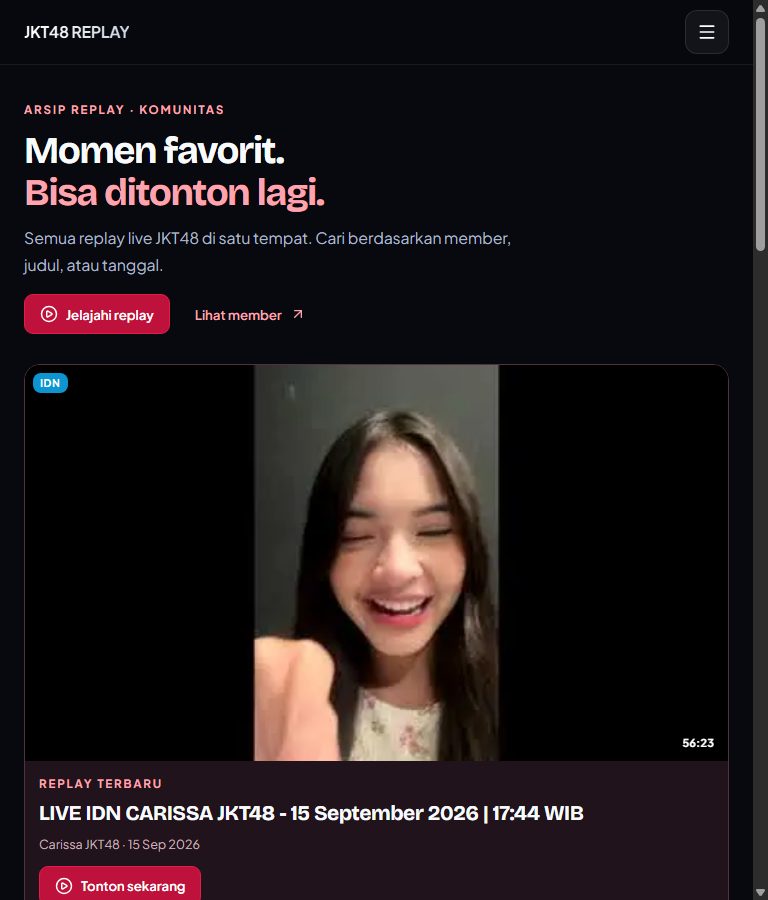
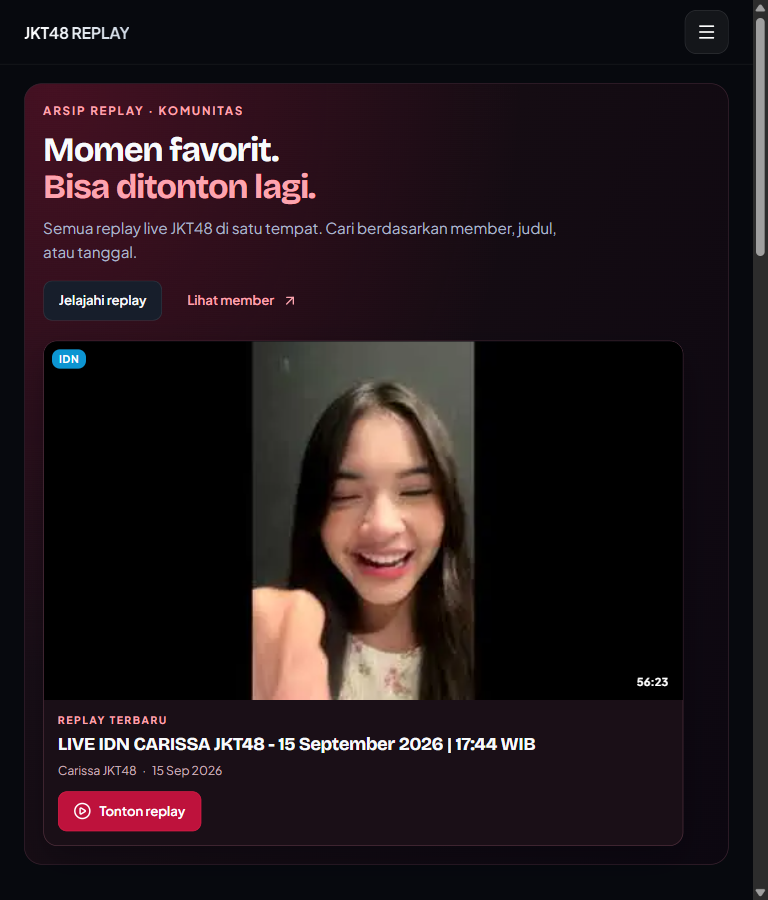
Hero band: teks kiri + kartu spotlight replay terbaru (.hero-card), buang CSS hero lama

diff --git a/web/app/portal.css b/web/app/portal.css
@@ -23,36 +23,32 @@ button:disabled { cursor: not-allowed; opacity: .5; }
 .secondary-button { background: #171e2b; border: 1px solid var(--border-card); color: #f8fafc; }
 .secondary-button:hover { border-color: #94a3b8; }
 .text-button { color: #fda4af; }
-.catalog-hero { padding-top: clamp(22px, 3.5vw, 34px); padding-bottom: clamp(20px, 3vw, 30px); display: grid; grid-template-columns: 1.6fr 1fr; gap: clamp(20px, 3vw, 34px); align-items: center; }
-.catalog-hero > div { min-width: 0; }
-.catalog-hero h1 { font-size: clamp(1.7rem, 1.25rem + 2.3vw, 3rem); line-height: 1.1; letter-spacing: -.04em; overflow-wrap: break-word; text-wrap: balance; }
-.catalog-hero h1 span { color: #fda4af; }
-.hero-copy { max-width: 520px; margin: 12px 0 16px; line-height: 1.7; font-size: clamp(.88rem, .85rem + .4vw, .98rem); }
-.hero-actions { display: flex; flex-wrap: wrap; gap: 10px; }
-.hero-actions .primary-button, .hero-actions .text-button { flex: 0 1 auto; }
-/* Spotlight replay terbaru — menggantikan panel statistik RINGKASAN ARSIP. */
-.hero-spotlight { position: relative; overflow: hidden; border: 1px solid #52303d; background: #20131c; border-radius: 16px; display: flex; flex-direction: column; min-width: 0; }
-.hero-spotlight-thumb { position: relative; display: block; width: 100%; aspect-ratio: 16 / 9; background: #020617; overflow: hidden; }
-.hero-spotlight-img { object-fit: cover; }
-.hero-spotlight-thumb:hover .hero-spotlight-img { transform: scale(1.04); }
-.hero-spotlight-img { transition: transform .4s ease; }
-.hero-spotlight-play { position: absolute; inset: 0; display: grid; place-items: center; color: #fff; opacity: 0; background: rgba(2,6,23,.45); transition: opacity .2s ease; }
-.hero-spotlight-thumb:hover .hero-spotlight-play, .hero-spotlight-thumb:focus-visible .hero-spotlight-play { opacity: 1; }
-.hero-spotlight-body { padding: clamp(14px, 1.8vw, 20px); display: flex; flex-direction: column; gap: 8px; min-width: 0; }
-.hero-spotlight-body .eyebrow { margin-bottom: 0; }
-.hero-spotlight-title { font-size: clamp(1rem, .92rem + .8vw, 1.3rem); line-height: 1.3; overflow-wrap: break-word; display: -webkit-box; -webkit-line-clamp: 2; -webkit-box-orient: vertical; overflow: hidden; }
-.hero-spotlight-title:hover { color: #fda4af; }
-.hero-spotlight-meta { color: #c6aeb8; font-size: .78rem; }
-.hero-spotlight-body .primary-button { margin-top: 4px; align-self: flex-start; }
-.hero-note { position: relative; overflow: hidden; border: 1px solid #52303d; background: #20131c; border-radius: 16px; padding: clamp(16px, 2.2vw, 22px); min-height: 0; display: flex; flex-direction: column; justify-content: center; gap: 12px; }
-.hero-note > :not(.hero-note-mark) { position: relative; }
-.hero-note > p { color: #fda4af; font-size: .68rem; letter-spacing: .18em; }
-.hero-stats-inline { display: flex; gap: clamp(16px, 3vw, 28px); }
-.hero-stats-inline > div { display: flex; flex-direction: column; gap: 2px; }
-.hero-stats-inline strong { font-family: var(--font-display); font-size: clamp(1.4rem, 1.1rem + 1.4vw, 1.9rem); font-weight: 800; line-height: 1.1; color: #fff; font-variant-numeric: tabular-nums; }
-.hero-stats-inline span { font-size: .72rem; color: #c6aeb8; letter-spacing: .02em; }
-.hero-note-foot { color: #c6aeb8; font-size: .72rem; }
-.hero-note-mark { position: absolute; font-size: clamp(80px, 14vw, 130px); font-weight: 900; line-height: 1; right: -6px; bottom: -18px; color: #40202e; pointer-events: none; }
+.catalog-hero-block { padding-top: clamp(16px, 2.4vw, 24px); padding-bottom: clamp(16px, 2.4vw, 24px); }
+/* Band hero sinematik: satu panel gelap dengan glow maroon, teks di kiri dan
+   kartu spotlight replay terbaru di kanan. Dua kolom seimbang (align-items:
+   center) supaya tidak ada ruang kosong menggantung seperti versi lama. */
+.hero-band { display: grid; grid-template-columns: minmax(0, 1fr) minmax(0, 420px); align-items: center; gap: clamp(18px, 2.6vw, 34px); padding: clamp(18px, 2.4vw, 30px); border: 1px solid #3d2331; border-radius: 18px; background: radial-gradient(115% 130% at 4% 0%, rgba(190, 18, 60, .26) 0%, rgba(190, 18, 60, 0) 58%), linear-gradient(114deg, #1b1019 0%, #150c13 48%, #0c0710 100%); }
+.hero-band.is-solo { grid-template-columns: minmax(0, 1fr); }
+.hero-intro { min-width: 0; display: flex; flex-direction: column; align-items: flex-start; }
+.catalog-hero-block h1 { font-size: clamp(1.6rem, 1.2rem + 1.9vw, 2.55rem); line-height: 1.1; letter-spacing: -.035em; overflow-wrap: break-word; text-wrap: balance; }
+.catalog-hero-block h1 span { color: #fda4af; }
+.hero-copy { max-width: 48ch; margin: 10px 0 16px; line-height: 1.6; font-size: clamp(.86rem, .84rem + .35vw, .95rem); }
+.hero-actions { display: flex; flex-wrap: wrap; align-items: center; gap: 10px; }
+.hero-actions .primary-button, .hero-actions .secondary-button, .hero-actions .text-button { flex: 0 1 auto; }
+/* Kartu spotlight: satu aksi utama (Tonton replay) supaya tidak bersaing
+   dengan tombol kiri. Poster 16:9 = bingkai asli thumbnail (kolase 3x2 bot). */
+.hero-card { display: flex; flex-direction: column; min-width: 0; overflow: hidden; border: 1px solid #52303d; border-radius: 14px; background: #1a0f17; box-shadow: 0 16px 34px rgba(2, 2, 10, .38); }
+.hero-card-thumb { position: relative; display: block; width: 100%; aspect-ratio: 16 / 9; background: #05070f; overflow: hidden; }
+.hero-card-img { object-fit: cover; transition: transform .4s ease; }
+.hero-card-thumb:hover .hero-card-img, .hero-card-thumb:focus-visible .hero-card-img { transform: scale(1.03); }
+.hero-card-play { position: absolute; inset: 0; display: grid; place-items: center; color: #fff; opacity: 0; background: rgba(2, 6, 23, .42); transition: opacity .2s ease; }
+.hero-card-thumb:hover .hero-card-play, .hero-card-thumb:focus-visible .hero-card-play { opacity: 1; }
+.hero-card-body { padding: 12px 14px 14px; display: flex; flex-direction: column; gap: 5px; min-width: 0; }
+.hero-card-kicker { font-size: .64rem; letter-spacing: .16em; font-weight: 800; color: #fda4af; }
+.hero-card-title { font-size: clamp(.98rem, .9rem + .5vw, 1.18rem); line-height: 1.28; overflow-wrap: break-word; display: -webkit-box; -webkit-line-clamp: 2; -webkit-box-orient: vertical; overflow: hidden; }
+.hero-card-title:hover { color: #fecdd3; }
+.hero-card-meta { display: flex; flex-wrap: wrap; gap: 6px; color: #c6aeb8; font-size: .76rem; }
+.hero-card-cta { align-self: flex-start; margin-top: 7px; }
 .catalog-filters { display: flex; align-items: end; flex-wrap: wrap; gap: 10px; padding: clamp(12px, 2vw, 16px); border: 1px solid var(--border-card); border-radius: 12px; background: #101622; }
 .catalog-filters label, .form-row label, .search-field { display: flex; flex-direction: column; gap: 6px; font-size: .76rem; font-weight: 600; color: var(--text-secondary); min-width: 0; }
 .catalog-filters .primary-button, .catalog-filters .secondary-button, .catalog-filters .text-button { flex: 0 0 auto; }
@@ -84,6 +80,14 @@ button:disabled { cursor: not-allowed; opacity: .5; }
 .member-card { box-shadow: none; }
 .footer-brand { font-weight: 700; color: #f8fafc; margin-bottom: 8px; }
 
+/* Hero: di bawah 900px kartu spotlight turun ke bawah teks (satu kolom). Lebar
+   kartu dibatasi 640px saja — cukup besar untuk poster ala aplikasi streaming,
+   tapi tidak menutupi seluruh layar tablet. */
+@media (max-width: 900px) {
+  .hero-band { grid-template-columns: minmax(0, 1fr); }
+  .hero-card { max-width: 640px; }
+}
+
 /* Form filter: tumpuk rapi di layar kecil */
 @media (max-width: 720px) {
   .catalog-filters { align-items: stretch; }
@@ -91,8 +95,6 @@ button:disabled { cursor: not-allowed; opacity: .5; }
   .catalog-filters .filter-actions { margin-left: 0; width: 100%; }
   .catalog-filters .filter-actions .primary-button { flex: 1 1 auto; }
   /* Tombol hero jadi lebar penuh agar mudah dijangkau jempol. */
-  .hero-actions .primary-button, .hero-actions .text-button { flex: 1 1 100%; }
-  .hero-spotlight-body .primary-button { align-self: stretch; text-align: center; }
-  /* Kartu ringkasan tidak perlu cetakan besar di layar sempit. */
-  .hero-note-mark { display: none; }
+  .hero-actions .primary-button, .hero-actions .secondary-button, .hero-actions .text-button { flex: 1 1 100%; }
+  .hero-card-cta { align-self: stretch; justify-content: center; }
 }

diff --git a/web/components/PublicCatalog.tsx b/web/components/PublicCatalog.tsx
@@ -1,7 +1,7 @@
 import Link from 'next/link';
 import { getAllVideos, getPublicMembers, getUpcomingVideos } from '@/lib/db';
 import VideoCard from '@/components/VideoCard';
-import HeroSpotlightThumb from '@/components/HeroSpotlightThumb';
+import HeroSpotlight from '@/components/HeroSpotlight';
 import { ArrowUpRight, MonitorPlay, PlayCircle, Search, User } from 'lucide-react';
 export default async function PublicCatalog({ searchParams }: { searchParams: Promise<{ q?: string; member?: string; platform?: string; page?: string }> }) {
   const params = await searchParams;
@@ -27,9 +27,9 @@ export default async function PublicCatalog({ searchParams }: { searchParams: Pr
   // pengunjung memakai filter/pencarian/halaman 2+, panel kanan disembunyikan
   // (hero jadi satu kolom) — spotlight tidak ikut berubah mengikuti filter.
   const hero = !filtered && result.page === 1 ? result.videos[0] : undefined;
-  const heroWatchUrl = hero ? `/watch/${hero.watch_id || hero.youtube_video_id}` : '/#catalog';
+  const heroWatchUrl = hero ? `/watch/${hero.watch_id || hero.youtube_video_id || hero.id}` : '/#catalog';
   return <div className="public-catalog">
-    <section className="container catalog-hero"><div><p className="eyebrow">ARSIP REPLAY · KOMUNITAS</p><h1>Momen favorit.<br /><span>Bisa ditonton lagi.</span></h1><p className="hero-copy">Semua replay live JKT48 di satu tempat. Cari berdasarkan member, judul, atau tanggal.</p><div className="hero-actions"><a className="primary-button" href="#catalog"><PlayCircle size={18} /> Jelajahi replay</a><Link href="/members" className="text-button">Lihat member <ArrowUpRight size={16} /></Link></div></div>{hero ? <article className="hero-spotlight"><HeroSpotlightThumb video={hero} watchUrl={heroWatchUrl} /><div className="hero-spotlight-body"><p className="eyebrow">{hero.is_new ? 'BARU TERBIT' : 'REPLAY TERBARU'}</p><Link href={heroWatchUrl}><h2 className="hero-spotlight-title" title={hero.title}>{hero.title}</h2></Link><p className="hero-spotlight-meta">{hero.streamer_name} · {hero.date_display || hero.started_at}</p><Link href={heroWatchUrl} className="primary-button"><PlayCircle size={18} /> Tonton sekarang</Link></div></article> : <div className="hero-note"><p>ARSIP REPLAY</p><span className="hero-note-foot">Replay yang sudah terbit akan tampil di sini.</span></div>}</section>
+    <section className="container catalog-hero-block"><div className={hero ? 'hero-band' : 'hero-band is-solo'}><div className="hero-intro"><p className="eyebrow">ARSIP REPLAY · KOMUNITAS</p><h1>Momen favorit.<br /><span>Bisa ditonton lagi.</span></h1><p className="hero-copy">Semua replay live JKT48 di satu tempat. Cari berdasarkan member, judul, atau tanggal.</p><div className="hero-actions"><a className={hero ? 'secondary-button' : 'primary-button'} href="#catalog">Jelajahi replay</a><Link href="/members" className="text-button">Lihat member <ArrowUpRight size={16} /></Link></div></div>{hero ? <HeroSpotlight video={hero} watchUrl={heroWatchUrl} /> : null}</div></section>
     <section className="container page-section" id="catalog"><header className="section-heading"><div><p className="eyebrow">REPLAY</p><h2>{filtered ? 'Hasil pencarian' : 'Replay terbaru'}</h2></div><p>Terbaru lebih dulu</p></header>
       <form action="/#catalog" method="GET" className="catalog-filters"><label className="catalog-search">Cari replay<span className="input-with-icon"><Search size={18} aria-hidden="true" /><input name="q" type="search" id="catalog-search-input" defaultValue={q} maxLength={100} placeholder="Judul, member, atau tanggal" /></span></label><label className="catalog-select">Member<span className="select-with-icon"><User size={18} aria-hidden="true" /><select name="member" defaultValue={member}><option value="">Semua member</option>{member && !members.some(m => m.username === member) && <option value={member}>{member}</option>}{members.map(m => <option value={m.username} key={m.username}>{m.display_name}</option>)}</select></span></label><label className="catalog-select">Platform<span className="select-with-icon"><MonitorPlay size={18} aria-hidden="true" /><select name="platform" defaultValue={platform}><option value="">Semua platform</option><option value="idn">IDN Live</option><option value="showroom">Showroom</option></select></span></label><div className="filter-actions"><button className="primary-button">Terapkan</button>{filtered && <Link href="/#catalog" className="text-button">Reset</Link>}</div></form>
       <p className="result-summary">{result.total} replay tersedia{upcoming.length > 0 ? ` (+${upcoming.length} segera hadir)` : ''}{q && <> untuk “{q}”</>}</p>

diff --git a/web/components/HeroSpotlight.tsx b/web/components/HeroSpotlight.tsx
@@ -1,0 +1,63 @@
+'use client';
+
+import { useState } from 'react';
+import Image from 'next/image';
+import Link from 'next/link';
+import { PlayCircle } from 'lucide-react';
+import type { VideoItem } from '@/lib/db';
+
+/**
+ * Kartu spotlight replay terbaru di hero.
+ *
+ * Poster memakai rasio asli thumbnail (16:9) dengan pola fallback yang sama
+ * dengan VideoCard — maxresdefault → hqdefault — sehingga wajah member tajam
+ * (bukan backdrop blur). Thumbnail 3x2 dari bot mengisi penuh bingkai ini.
+ * Keterangan + CTA utama ("Tonton replay") ada DI DALAM kartu supaya hero
+ * hanya punya satu aksi utama dan tidak bersaing dengan tombol kiri.
+ */
+export default function HeroSpotlight({ video, watchUrl }: { video: VideoItem; watchUrl: string }) {
+  const maxres = video.youtube_video_id ? `https://img.youtube.com/vi/${video.youtube_video_id}/maxresdefault.jpg` : video.thumbnail_url;
+  const fallback = video.youtube_video_id ? `https://img.youtube.com/vi/${video.youtube_video_id}/hqdefault.jpg` : video.thumbnail_url;
+  const [src, setSrc] = useState(maxres || fallback);
+  const kicker = video.is_visible === false ? 'SEGERA HADIR' : video.is_new ? 'BARU TERBIT' : 'REPLAY TERBARU';
+  return (
+    <article className="hero-card" data-platform={video.platform}>
+      <Link href={watchUrl} className="hero-card-thumb" aria-label={`Tonton replay: ${video.title}`}>
+        {src ? (
+          <Image
+            src={src}
+            alt={video.title}
+            fill
+            sizes="(max-width: 900px) 92vw, 440px"
+            className="hero-card-img"
+            onError={() => { if (src !== fallback) setSrc(fallback); }}
+          />
+        ) : null}
+        <span className={`platform-badge ${video.platform}`}>
+          {video.platform === 'idn' ? 'IDN' : 'Showroom'}
+        </span>
+        {video.duration_formatted ? (
+          <span className="duration-badge">{video.duration_formatted}</span>
+        ) : null}
+        <span className="hero-card-play" aria-hidden="true">
+          <PlayCircle size={28} />
+        </span>
+      </Link>
+
+      <div className="hero-card-body">
+        <p className="hero-card-kicker">{kicker}</p>
+        <Link href={watchUrl}>
+          <h2 className="hero-card-title" title={video.title}>{video.title}</h2>
+        </Link>
+        <p className="hero-card-meta">
+          <span>{video.streamer_name}</span>
+          <span aria-hidden="true">·</span>
+          <span>{video.date_display || video.started_at}</span>
+        </p>
+        <Link href={watchUrl} className="primary-button hero-card-cta">
+          <PlayCircle size={18} aria-hidden="true" /> Tonton replay
+        </Link>
+      </div>
+    </article>
+  );
+}

diff --git a/TASKS.md b/TASKS.md
@@ -133,6 +133,31 @@ Status live proyek. Perbarui bagian ini setiap ada perubahan penting.
       `.env.example`): gagal → warning, upload tetap sukses. Perlu ffmpeg +
       ffprobe di VPS. Test: `tests/test_youtube_title.py::TestThumbnailCollage`
       (+9 kasus) → total **215 test** hijau.
+- [x] **Kolase thumbnail dijamin PERSIS 1280x720**: 1280 tidak habis dibagi 3, jadi
+      lebar sel kini per kolom `COLUMN_WIDTHS = [426, 426, 428]` (kolom kanan
+      menyerap sisa 2 px) — sebelumnya 426x3 = 1278 sehingga ada pilar hitam di
+      kanan (ditolak YouTube). `pick_sample_times()` ditulis ulang agar tidak
+      "infinite loop" pada video < ±8 s (jarak sampel dihitung dari durasi nyata,
+      bukan `count` tetap). Diverifikasi nyata dengan ffmpeg: `tmp/check-collage.py`
+      (gitignored) mengubah sumber 1080x1920 → output **1280x720**, plus uji
+      rotasi hue untuk membuktikan 6 sel berbeda. Test diperbarui
+      (`test_grid_dimensions_fill_720p`, `test_xstack_filter_cover_no_bars`).
+- [x] **Hero band + spotlight replay terbaru (menggantikan panel ringkasan arsip)**:
+      hero kini satu panel `hero-band` (glow maroon) berisi teks di kiri
+      (`hero-intro`: eyebrow, H1, copy, tombol "Jelajahi replay" jadi sekunder
+      saat ada spotlight, link "Lihat member") dan **kartu spotlight** di kanan
+      (`HeroSpotlight.tsx` → `.hero-card`): poster 16:9 (thumbnail kolase bot)
+      + badge platform + durasi + overlay play, kicker BARU TERBIT/REPLAY
+      TERBARU/SEGERA HADIR, judul, meta member·tanggal, satu CTA "Tonton replay".
+      Sumber = `result.videos[0]` halaman 1 tanpa filter (nol query tambahan);
+      saat pengunjung memfilter/mencari/buka halaman 2+, band otomatis jadi satu
+      kolom (`.hero-band.is-solo`). CSS mati dibuang (`.hero-cinema*`,
+      `.hero-note*`, `.hero-stats-inline*`, `.hero-spotlight*`), breakpoint baru
+      900px (kartu turun ke bawah teks, `max-width: 640px`) dan 720px (tombol
+      hero + CTA kartu full-width). `verify/portal-browser-check.mjs` kini juga
+      menguji `hero-band`/`hero-card` (tidak overflow + hero 2 kolom ≥1024px).
+      Verifikasi: `tsc`, `eslint`, `npm run build`, `verify:home-upcoming`,
+      `verify:auto-publish`, dan browser check **20/20 PASS** (360/390/768/1024/1440).
 
 ## Kandidat Pekerjaan Berikutnya (belum dikerjakan)
 
